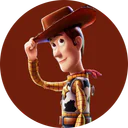
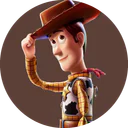
Profile pictures: 45 (21, 22, 31 redrawn; 41–45 new), picker ordered by colour
Keys stay the file numbers (accounts keep their picture, no migration);
AVATAR_COLOR_ORDER groups them white → grey → beige → yellow → green →
blue → purple → pink → red → brown → black. Nine per row from sm.

Claude-Session: https://claude.ai/code/session_01PXHSvG6Cz8objFobUyZZAg

diff --git a/src/lib/avatars.ts b/src/lib/avatars.ts
@@ -2,7 +2,9 @@ import { z } from 'zod';
 
 /**
  * Preset profile pictures: hand-made round icons (ASSETS/PROFILE_ICONS, built by `npm run avatars`
- * into public/avatars): 30 on 2026-10-31, 40 since 2026-11-01 (keys 01–30 kept, new pictures).
+ * into public/avatars): 30 on 2026-10-31, 40 on 2026-11-01, 45 since 2026-11-02. A key is the
+ * file's number and never changes meaning, so an account keeps its picture; the picker shows them
+ * in AVATAR_COLOR_ORDER instead.
  * They replace the 20 mascot × colour presets of 06 §7; old keys were moved to these in migration
  * 20261104120100. No user uploads.
  */
@@ -47,9 +49,89 @@ export const AVATAR_KEYS = [
   'perfil-38',
   'perfil-39',
   'perfil-40',
+  'perfil-41',
+  'perfil-42',
+  'perfil-43',
+  'perfil-44',
+  'perfil-45',
 ] as const;
 
 export type AvatarKey = (typeof AVATAR_KEYS)[number];
+
+/**
+ * The picker's order (2026-11-02): grouped by each picture's background colour — white, light
+ * grey, beige, yellow, green, blue, purple, pink, red, brown, black — lighter first within a
+ * group. Every key exactly once (tests/unit/rules.test.ts); a new picture must be placed here.
+ */
+export const AVATAR_COLOR_ORDER: readonly AvatarKey[] = [
+  // branco
+  'perfil-09',
+  'perfil-06',
+  'perfil-12',
+  'perfil-45',
+  'perfil-21',
+  'perfil-04',
+  'perfil-05',
+  'perfil-31',
+  'perfil-02',
+  'perfil-07',
+  'perfil-03',
+  'perfil-08',
+  'perfil-01',
+
+  // cinza claro
+  'perfil-11',
+  'perfil-10',
+
+  // bege
+  'perfil-18',
+  'perfil-20',
+  'perfil-19',
+
+  // amarelo
+  'perfil-17',
+  'perfil-13',
+  'perfil-14',
+  'perfil-15',
+  'perfil-16',
+  'perfil-41',
+
+  // verde
+  'perfil-40',
+
+  // azul
+  'perfil-44',
+  'perfil-28',
+  'perfil-29',
+  'perfil-33',
+  'perfil-32',
+  'perfil-30',
+
+  // roxo
+  'perfil-36',
+
+  // rosa
+  'perfil-25',
+
+  // vermelho
+  'perfil-24',
+  'perfil-26',
+  'perfil-27',
+  'perfil-43',
+
+  // marrom
+  'perfil-22',
+  'perfil-23',
+
+  // preto
+  'perfil-42',
+  'perfil-34',
+  'perfil-37',
+  'perfil-38',
+  'perfil-35',
+  'perfil-39',
+];
+
 export const DEFAULT_AVATAR: AvatarKey = 'perfil-01';
 export const avatarKeySchema = z.enum(AVATAR_KEYS);
 

diff --git a/tests/unit/rules.test.ts b/tests/unit/rules.test.ts
@@ -1,5 +1,6 @@
 import { describe, expect, it } from 'vitest';
 import {
+  AVATAR_COLOR_ORDER,
   AVATAR_KEYS,
   avatarLabel,
   avatarSrc,
@@ -38,20 +39,21 @@ describe('usernames', () => {
 });
 
 describe('avatars', () => {
-  it('40 hand-made presets; the default is one of them', () => {
-    expect(AVATAR_KEYS).toHaveLength(40);
+  it('45 hand-made presets; the default is one of them; the picker order holds each once', () => {
+    expect(AVATAR_KEYS).toHaveLength(45);
     expect(AVATAR_KEYS[0]).toBe('perfil-01');
-    expect(AVATAR_KEYS.at(-1)).toBe('perfil-40');
+    expect(AVATAR_KEYS.at(-1)).toBe('perfil-45');
     expect(AVATAR_KEYS).toContain(DEFAULT_AVATAR);
     expect(avatarLabel('perfil-07')).toBe('Avatar 7');
     expect(avatarSrc('perfil-07', 48)).toBe('/avatars/perfil-07-128.webp');
     expect(avatarSrc('perfil-07', 96)).toBe('/avatars/perfil-07-256.webp');
+    expect([...AVATAR_COLOR_ORDER].sort()).toEqual([...AVATAR_KEYS]);
   });
   it('unknown and retired keys from the DB fall back to the default', () => {
     expect(resolveAvatarKey('../../x')).toBe(DEFAULT_AVATAR);
     expect(resolveAvatarKey(null)).toBe(DEFAULT_AVATAR);
     expect(resolveAvatarKey('mascote-2-plum')).toBe(DEFAULT_AVATAR);
-    expect(resolveAvatarKey('perfil-41')).toBe(DEFAULT_AVATAR);
+    expect(resolveAvatarKey('perfil-46')).toBe(DEFAULT_AVATAR);
     expect(resolveAvatarKey('perfil-12')).toBe('perfil-12');
   });
 });

diff --git a/tests/e2e/account-flow.spec.ts b/tests/e2e/account-flow.spec.ts
@@ -18,7 +18,16 @@ test('onboarding → perfil → perfil público', async ({ page, context }) => {
   await expect(page.getByText('Esse nome é reservado.')).toBeVisible();
   await page.getByLabel('Nome de usuário').fill(name);
   await expect(page.getByText('Disponível!')).toBeVisible();
-  await page.getByLabel('Avatar 10', { exact: true }).check({ force: true });
+  // the picker is ordered by colour: white backgrounds first, black last (2026-11-02)
+  const options = page.getByRole('radio', { name: /^Avatar \d+$/ });
+  await expect(options).toHaveCount(45);
+  await expect(options.first()).toHaveAccessibleName('Avatar 9');
+  await expect(options.last()).toHaveAccessibleName('Avatar 39');
+  // keyboard, like a keyboard user (a forced click can land on the phone's fixed tab bar)
+  const pick = page.getByLabel('Avatar 44', { exact: true });
+  await pick.focus();
+  await page.keyboard.press('Space');
+  await expect(pick).toBeChecked();
   await page.getByRole('button', { name: 'Criar meu perfil' }).click();
 
   await expect(page).toHaveURL(/\/perfil$/);

diff --git a/src/components/account/AvatarPicker.tsx b/src/components/account/AvatarPicker.tsx
@@ -1,18 +1,18 @@
 'use client';
 
 import { Img } from '@/components/Img';
-import { AVATAR_KEYS, type AvatarKey, avatarLabel, avatarSrc } from '@/lib/avatars';
+import { AVATAR_COLOR_ORDER, type AvatarKey, avatarLabel, avatarSrc } from '@/lib/avatars';
 import { cn } from '@/lib/cn';
 
 type Props = { value: AvatarKey; onChange: (key: AvatarKey) => void; name?: string };
 
-/** The 40 preset profile pictures as an accessible radio group (arrow keys move between options). */
+/** The 45 preset profile pictures, ordered by colour, as an accessible radio group (arrow keys move). */
 export function AvatarPicker({ value, onChange, name = 'avatar' }: Props) {
   return (
     <fieldset>
       <legend className="mb-3 text-sm font-semibold text-lilac">Escolha seu avatar</legend>
-      <div className="grid grid-cols-5 gap-3 sm:grid-cols-8">
-        {AVATAR_KEYS.map((key) => {
+      <div className="grid grid-cols-5 gap-3 sm:grid-cols-9">
+        {AVATAR_COLOR_ORDER.map((key) => {
           const checked = key === value;
           return (
             <label

diff --git a/scripts/avatars.ts b/scripts/avatars.ts
@@ -1,6 +1,6 @@
 /**
- * Profile pictures (2026-10-31): ASSETS/PROFILE_ICONS/01.png … 40.png (1000 × 1000, round, transparent
- * corners) → public/avatars/perfil-NN-{128,256}.webp. The originals stay out of git (≈ 29 MB);
+ * Profile pictures (2026-10-31): ASSETS/PROFILE_ICONS/01.png … 45.png (1000 × 1000, round, transparent
+ * corners) → public/avatars/perfil-NN-{128,256}.webp. The originals stay out of git (≈ 34 MB);
  * re-run `npm run avatars` after changing one. Metadata is stripped, alpha kept.
  */
 import { existsSync, mkdirSync, readdirSync } from 'node:fs';

diff --git a/docs/phase-6/README.md b/docs/phase-6/README.md
@@ -111,3 +111,7 @@ OBS shares one cookie jar between all its browser sources, but the overlay cooki
 | **Overlays in OBS over http://localhost** | `overlayCookieSpec()` in `src/server/overlay/keys.ts` | OBS's built-in browser is an older Chromium that drops `__Host-` cookies on `http://localhost` (Chrome only allowed them there later). The key exchange succeeded, but OBS never kept the cookie, so every widget said "Sem acesso". Under `npm run dev` over http (NODE_ENV=development and an `http://` APP_ORIGIN), the overlay cookie is now `wf_overlay_dev`: not Secure, still HttpOnly and SameSite=Strict. Tests and production (https only, enforced by `env.ts`) keep `__Host-wf_overlay`. Checked against `next dev` over http: the exchange sets `wf_overlay_dev`, and the stream answers with the "Meta total" data. |
 | Poster glow on Filmes | `.wf-rail--ring .wf-rail__track` in `hero.css` | The rail clips its contents and had 22 px of room above and below, while the active poster's glow reaches about 48 px, so it ended in a hard line. The rail now has 64 px of padding, taken back with negative margins, so the posters don't move. The transparent extra area ignores the pointer, so the text and buttons above stay clickable. |
 | Reviews side by side | `.wf-reviews__list` in `reviews.css`, Avaliações page | Review lists (Avaliações, title pages, public profiles) show as many ~340 px columns as fit: three at 1280 px on Avaliações, one on phones. Cards in a row share their height, and the like/report row stays at the bottom. |
+
+### 8.3 45 profile pictures, ordered by colour (2026-11-02)
+
+Your new set: 21, 22 and 31 have new pictures, and 41–45 are new. `npm run avatars` rebuilt every WebP (90 files). A key is the file's number and never changes meaning, so every account keeps its number with that number's picture, and no data migration was needed. The picker no longer follows the file numbers: it shows `AVATAR_COLOR_ORDER` (`src/lib/avatars.ts`), grouped by background colour — white, light grey, beige, yellow, green, blue, purple, pink, red, brown, black — with lighter pictures first in each group. Nine per row from `sm` up (five rows) and five per row on phones. A unit test checks that the order lists every key exactly once, so **a new picture must be added to that list** as well as to `ASSETS/PROFILE_ICONS`.

diff --git a/docs/phase-6/test-report.md b/docs/phase-6/test-report.md
@@ -97,3 +97,10 @@ Note: the environment's Playwright now looks for Chromium build 1248 while 1243 
 | Integration | `overlay.test.ts` ✅ 51 / 51 (+1: the cookie name and flag for development over http versus everything else) |
 | Manual reproduction | `next dev` over http against the test stack: the key exchange sets `wf_overlay_dev` (HttpOnly, SameSite=Strict), and `/api/v1/overlay/stream?widget=meta-total` with that cookie answers 200 with the "Meta total" event. The same request with the `__Host-` name is refused, as expected in development. |
 | E2E | `reviews`, `carousel`, `design-match`, `viewports`, `operations` ✅ 56 / 56; `a11y-layout` + `csp` for the affected pages ✅ 16 / 16. New check: on Avaliações at 1280 px, two cards share a row with the same height; at 360 px they stack. Screenshots checked: the active poster's glow at 1920 × 1080 now fades out, and Avaliações shows three cards per row. |
+
+## Addendum — 45 profile pictures by colour (2026-11-02)
+
+| Suite | Result |
+|---|---|
+| Unit | ✅ 321 / 321 (45 keys; the colour order is a permutation of the keys; every built WebP checked) |
+| E2E | `account-flow` ✅ 8 / 8; the picture-related `a11y-layout`, `csp` and `headers` checks pass. The onboarding test now checks 45 options, colour order (Avatar 9 first, Avatar 39 last) and picks the new Avatar 44 with the keyboard: on the 360 px run, a forced click on that option landed on the fixed tab bar. |
